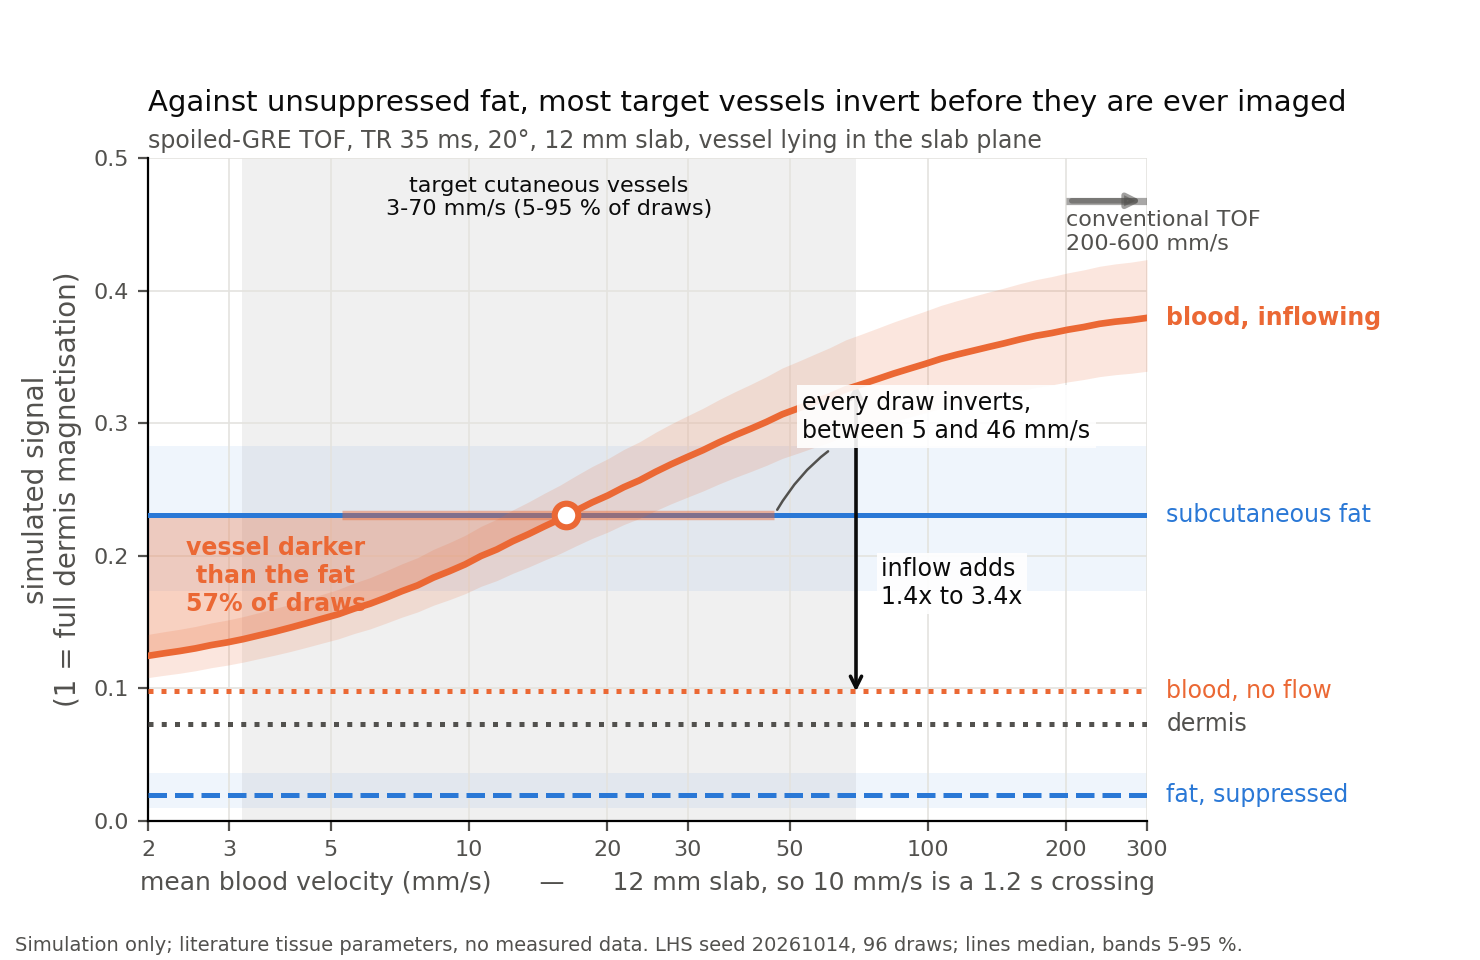
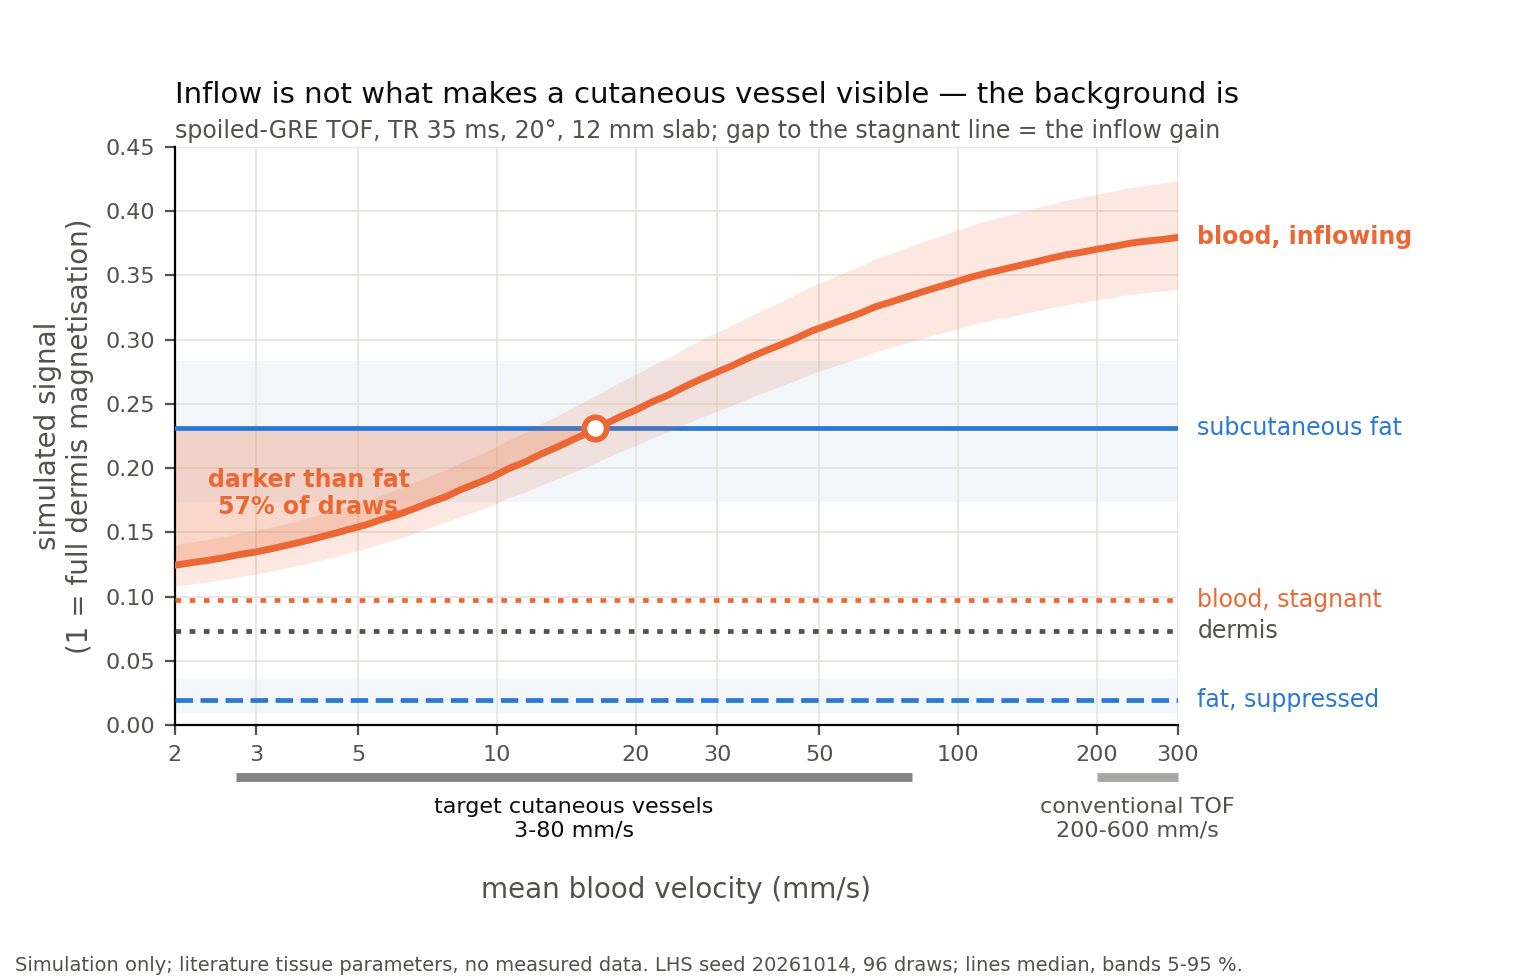
Rebuild Figure 1b: move everything that is not a curve out of the plot
The panel had grown to seventeen elements - two shaded bands, a span bar,
two leader-line callouts, a double-headed arrow, an inline arrow graphic
and six labels - each added for a reason and collectively unreadable.

Rebuilt rather than patched further, on one rule: the plot area carries
curves, everything else goes to an edge.

  - the two velocity regimes move from shaded bands inside the axes to a
    rail below them, which removes two large grey washes that were
    competing with the inversion shading for the same space;
  - the inflow double-arrow goes, because the stagnant line already shows
    the gap - the arrow was annotating something the reader can see;
  - the crossing span bar and both callouts go; those numbers belong in
    the caption, and the printout now emits every one of them;
  - five levels keep their right-margin labels, so identity is never
    carried by colour alone and no legend box is needed.

What survives inside the axes: five lines, one band per level, the
inversion area and its one label. Nothing else.

No numbers changed.

diff --git a/figures/fig1b_regime.py b/figures/fig1b_regime.py
@@ -1,22 +1,28 @@
-"""Figure 1b: why cutaneous TOF is a different problem, in absolute signal.
+"""Figure 1b: what inflow buys in skin, and which background it has to beat.
 
-One panel, one message. As blood slows into the cutaneous range, inflow
-enhancement is progressively spent and the slab-mean blood signal falls toward
-the static steady state. Whether the vessel is still visible there is decided
-by the background it sits against, which in skin is set by depth:
+One panel. Blood signal against velocity, with the four levels it is measured
+against drawn as flat references:
 
-  - against DERMIS (shallow), blood stays above the background at every
-    physiological velocity;
-  - against UNSUPPRESSED SUBCUTANEOUS FAT (1-10 mm, where the target vessels
-    are), blood falls BELOW the background and the vessel inverts. Every draw
-    in the literature parameter ranges inverts somewhere; only the velocity at
-    which it happens is uncertain, and that velocity lands inside the target
-    range;
-  - with the fat suppressed, the background collapses to near zero and the
-    inversion disappears entirely.
+    blood, stagnant       the spoiled-GRE fixed point - a vessel with no flow.
+                          The gap between it and the curve IS the inflow
+                          enhancement, so the figure shows inflow rather than
+                          asking the reader to assume it.
+    subcutaneous fat      the background at the 1-10 mm target depth.
+    fat, suppressed       the same background with a fat-saturation pulse.
+    dermis                the background for the shallowest vessels.
 
-Conventional TOF operates two decades to the right of this, on the plateau,
-which is why its parameter choices do not transfer.
+Two things follow, and they are different claims:
+
+  - inflow still works: 1.4x at 3 mm/s to 3.4x at 70 mm/s over the stagnant
+    floor, so it is not exhausted at cutaneous velocities;
+  - but it is not what makes the vessel visible. Stagnant blood already beats
+    dermis and suppressed fat. Inflow is load-bearing only against UNSUPPRESSED
+    fat, where stagnant blood sits at 0.42x the background - and there it
+    fails, inverting in every parameter draw.
+
+Layout: the velocity regimes sit on a rail below the axes rather than as shaded
+bands inside it, and the numbers belong in the caption rather than in callouts,
+so the plot area carries curves and nothing else.
 
 Every number is read from tissues.py and protocols.py. No measured data.
 
@@ -37,21 +43,14 @@ from tissues import HAEMODYNAMICS, PARAM_FIELDS, sample_tissues
 
 # Validated two-hue pair (dataviz validator, light surface): blood vs fat.
 BLOOD_C, FAT_C = SERIES[1], SERIES[0]
+DOTTED = (0, (1.2, 1.8))
 
 SEED, N_DRAWS = 20261014, 96
-TR_MS, FLIP_DEG = 35.0, 20.0
-SLAB_MM = 12.0  # stated: the transit time that governs inflow is SLAB_MM / velocity
-INPLANE_MM = 0.3
+TR_MS, FLIP_DEG, SLAB_MM, INPLANE_MM = 35.0, 20.0, 12.0, 0.3
 VELOCITIES = np.geomspace(2.0, 300.0, 64)
-INTRACRANIAL_MM_S = (200.0, 300.0)  # lower end of the 200-600 mm/s TOF range; arrow marks the rest
+CONVENTIONAL_TOF = (200.0, 600.0)  # intracranial / run-off TOF, for scale
+TICKS = (2, 3, 5, 10, 20, 30, 50, 100, 200, 300)
 KEYS = ("arterial_blood", "hypodermis", "dermis")
-
-
-def cutaneous_velocities(n: int = 4096) -> np.ndarray:
-    """Return drawn cutaneous velocities, target velocity times the thermoregulatory factor."""
-    _, others = sample_tissues(["arterial_blood"], n, SEED,
-                               haemodynamic_keys=("target_vessel_velocity", "thermoregulatory_factor"))
-    return np.asarray(others["target_vessel_velocity"]) * np.asarray(others["thermoregulatory_factor"])
 
 
 def draw() -> tuple[list[dict[str, TissueSample]], np.ndarray]:
@@ -70,43 +69,28 @@ def sequences() -> tuple[TofSequence, TofSequence]:
             TofSequence(timing=timing, flip_deg=FLIP_DEG, modules=(SaturationModule("fatsat_s", 8.0),)))
 
 
-def _flow(velocity: float) -> FlowGeometry:
-    """Return the laminar flow geometry of a target vessel lying in the slab plane."""
-    slab = Slab(thickness_mm=SLAB_MM, orientation_deg=90.0)
-    vessel = Vessel(depth_mm=5.0, polar_deg=90.0, azimuth_deg=0.0,
-                    diameter_mm=HAEMODYNAMICS["target_diameter"].nominal)
-    return FlowGeometry(vessel, slab, velocity, N_SHELLS, SLAB_MM * 1.001)
-
-
 def blood_at(seq: TofSequence, sample: TissueSample, velocity: float) -> float:
     """Return slab-mean blood signal for one tissue sample at one velocity."""
-    flow = _flow(velocity)
+    vessel = Vessel(depth_mm=5.0, polar_deg=90.0, azimuth_deg=0.0,
+                    diameter_mm=HAEMODYNAMICS["target_diameter"].nominal)
+    flow = FlowGeometry(vessel, Slab(thickness_mm=SLAB_MM, orientation_deg=90.0),
+                        velocity, N_SHELLS, SLAB_MM * 1.001)
     return float(np.mean(seq.blood_signal(sample, flow, np.linspace(0.0, flow.path_mm(), 32))))
 
 
-def blood_curve(seq: TofSequence, samples: list[dict[str, TissueSample]]) -> np.ndarray:
-    """Return slab-mean blood signal, shape (velocities, draws)."""
-    return np.array([[blood_at(seq, s["arterial_blood"], v) for s in samples] for v in VELOCITIES])
-
-
-def flat(seq: TofSequence, samples: list[dict[str, TissueSample]], key: str) -> np.ndarray:
-    """Return the static steady-state signal of one tissue over the draws."""
-    return np.array([float(seq.static_signal(s[key])) for s in samples])
-
-
 def crossing_velocities(seq: TofSequence, samples: list[dict[str, TissueSample]], key: str) -> np.ndarray:
-    """Return, per draw, the velocity at which that draw's blood falls below that draw's own background.
+    """Return, per draw, the velocity at which that draw's blood falls below its own background.
 
-    Solved by bisection in log velocity rather than read off the plotting grid,
-    so the quoted bounds do not move when the grid is refined.
+    Solved by bisection in log velocity, not read off the plotting grid, so the
+    bounds do not move when the grid is refined.
     """
     from scipy.optimize import brentq
 
     out = []
     for s in samples:
-        background = float(seq.static_signal(s[key]))
+        level = float(seq.static_signal(s[key]))
 
-        def excess(log_v: float, sample=s["arterial_blood"], g=background) -> float:
+        def excess(log_v: float, sample=s["arterial_blood"], g=level) -> float:
             return blood_at(seq, sample, float(np.exp(log_v))) - g
 
         lo, hi = np.log(VELOCITIES[0]), np.log(VELOCITIES[-1])
@@ -115,117 +99,93 @@ def crossing_velocities(seq: TofSequence, samples: list[dict[str, TissueSample]]
     return np.array(out)
 
 
-def hline(ax, values: np.ndarray, colour: str, style: str, alpha: float = 0.07) -> float:
-    """Draw a velocity-independent background as a median line with its 5-95 % band; return the median."""
-    lo, mid, hi = np.percentile(values, [5, 50, 95])
-    if alpha:
-        ax.axhspan(lo, hi, color=colour, alpha=alpha, lw=0, zorder=1)
-    ax.axhline(mid, color=colour, lw=1.8, ls=style, zorder=3)
+def reference(ax, values, colour: str, style, label: str, band: bool = False) -> float:
+    """Draw a velocity-independent level as a line, label it in the right margin, return its median."""
+    lo, mid, hi = np.percentile(np.asarray(values, dtype=float), [5, 50, 95])
+    if band:
+        ax.axhspan(lo, hi, color=colour, alpha=0.055, lw=0, zorder=1)
+    ax.axhline(mid, color=colour, lw=1.7, ls=style, zorder=3)
+    ax.annotate(label, (1.0, mid), xycoords=("axes fraction", "data"), xytext=(7, 0),
+                textcoords="offset points", va="center", fontsize=8.5, color=colour,
+                annotation_clip=False)
     return float(mid)
 
 
+def regime_rail(ax, target: tuple[float, float]) -> None:
+    """Draw the velocity regimes on a rail below the axes, keeping the plot area for curves."""
+    t = ax.get_xaxis_transform()
+    for (lo, hi), colour, text in ((target, INK, "target cutaneous vessels"),
+                                   (CONVENTIONAL_TOF, INK_2, "conventional TOF")):
+        drawn_hi = min(hi, VELOCITIES[-1])
+        ax.plot([lo, drawn_hi], [-0.09, -0.09], transform=t, color=colour, lw=3.2, alpha=0.5,
+                solid_capstyle="butt", clip_on=False, zorder=5)
+        ax.annotate(f"{text}\n{lo:.0f}-{hi:.0f} mm/s", (np.sqrt(lo * drawn_hi), -0.125), xycoords=t,
+                    ha="center", va="top", fontsize=8, color=colour, clip_on=False)
+
+
 def main() -> None:
-    """Build the panel and print the numbers behind it."""
-    samples, draw_velocities = draw()
+    """Build the panel and print every number the caption needs."""
+    samples, drawn_v = draw()
     plain, fatsat = sequences()
-    blood = blood_curve(plain, samples)  # blood is on-resonance: the fat pulse leaves it untouched
-    v_lo, v_hi = np.percentile(cutaneous_velocities(), [5, 95])
+    v_lo, v_hi = np.percentile(drawn_v, [5, 95])
 
-    fig, ax = plt.subplots(figsize=(7.4, 4.8))
-    fig.subplots_adjust(left=0.10, right=0.775, top=0.835, bottom=0.145)
-    ax.axvspan(v_lo, v_hi, color=INK, alpha=0.06, lw=0, zorder=0)
+    fig, ax = plt.subplots(figsize=(7.6, 4.9))
+    fig.subplots_adjust(left=0.115, right=0.775, top=0.85, bottom=0.26)
 
-    stat_b = hline(ax, flat(plain, samples, "arterial_blood"), BLOOD_C, (0, (1, 1.6)), alpha=0.0)
-    fat_u = hline(ax, flat(plain, samples, "hypodermis"), FAT_C, "-")
-    fat_s = hline(ax, flat(fatsat, samples, "hypodermis"), FAT_C, "--")
-    derm = hline(ax, flat(plain, samples, "dermis"), INK_2, ":", alpha=0.0)
-
+    blood = np.array([[blood_at(plain, s["arterial_blood"], v) for s in samples] for v in VELOCITIES])
     lo, mid, hi = np.percentile(blood, [5, 50, 95], axis=-1)
-    ax.fill_between(VELOCITIES, lo, hi, color=BLOOD_C, alpha=0.16, lw=0, zorder=4)
-    ax.plot(VELOCITIES, mid, color=BLOOD_C, lw=2.4, zorder=5)
 
-    frac = float(np.mean([blood_at(plain, s["arterial_blood"], float(v)) < float(plain.static_signal(s["hypodermis"]))
-                          for s, v in zip(samples, draw_velocities)]))
+    fat_u = reference(ax, [plain.static_signal(s["hypodermis"]) for s in samples], FAT_C, "-",
+                      "subcutaneous fat", band=True)
+    fat_s = reference(ax, [fatsat.static_signal(s["hypodermis"]) for s in samples], FAT_C, "--",
+                      "fat, suppressed", band=True)
+    derm = reference(ax, [plain.static_signal(s["dermis"]) for s in samples], INK_2, DOTTED, "dermis")
+    stat = reference(ax, [plain.static_signal(s["arterial_blood"]) for s in samples], BLOOD_C, DOTTED,
+                     "blood, stagnant")
 
-    # The region where the vessel is darker than the fat around it, as an area.
-    dark = mid < fat_u
-    ax.fill_between(VELOCITIES, mid, fat_u, where=dark, color=BLOOD_C, alpha=0.30,
+    # The inversion as an area, not a crossing the reader has to decode.
+    ax.fill_between(VELOCITIES, mid, fat_u, where=mid < fat_u, color=BLOOD_C, alpha=0.26,
                     lw=0, zorder=2, interpolate=True)
+    ax.fill_between(VELOCITIES, lo, hi, color=BLOOD_C, alpha=0.15, lw=0, zorder=4)
+    ax.plot(VELOCITIES, mid, color=BLOOD_C, lw=2.5, zorder=5)
+    ax.annotate("blood, inflowing", (1.0, mid[-1]), xycoords=("axes fraction", "data"), xytext=(7, 0),
+                textcoords="offset points", va="center", fontsize=8.5, color=BLOOD_C,
+                weight="bold", annotation_clip=False)
 
-    # Where each draw's vessel goes dark against its own unsuppressed fat.
     xs = crossing_velocities(plain, samples, "hypodermis")
     x5, x50, x95 = np.percentile(xs, [5, 50, 95])
-    ax.plot([x5, x95], [fat_u, fat_u], color=BLOOD_C, lw=3.4, solid_capstyle="butt", alpha=0.45, zorder=6)
-    ax.plot([x50], [fat_u], "o", ms=8.5, mfc="white", mec=BLOOD_C, mew=2.2, zorder=7)
+    frac = float(np.mean([blood_at(plain, s["arterial_blood"], float(v)) < float(plain.static_signal(s["hypodermis"]))
+                          for s, v in zip(samples, drawn_v)]))
+    ax.plot([x50], [fat_u], "o", ms=8, mfc="white", mec=BLOOD_C, mew=2.1, zorder=7)
+    ax.annotate(f"darker than fat\n{frac:.0%} of draws", (VELOCITIES[0] * 1.95, fat_u * 0.78),
+                ha="center", va="center", fontsize=8.5, color=BLOOD_C, weight="bold", zorder=8)
 
-    ax.annotate(f"vessel darker\nthan the fat\n{frac:.0%} of draws",
-                (VELOCITIES[0] * 1.9, fat_u * 0.80), ha="center", va="center",
-                fontsize=8.5, color=BLOOD_C, weight="bold", zorder=8)
-    i_lo = int(np.argmin(np.abs(VELOCITIES - v_lo)))
-    i_hi = int(np.argmin(np.abs(VELOCITIES - v_hi)))
-    ax.annotate("", (v_hi, stat_b), xytext=(v_hi, mid[i_hi]),
-                arrowprops=dict(arrowstyle="<->", color=INK, lw=1.3, shrinkA=0, shrinkB=0))
-    ax.annotate(f"inflow adds\n{mid[i_lo] / stat_b:.1f}x to {mid[i_hi] / stat_b:.1f}x",
-                (v_hi, np.sqrt(stat_b * mid[i_hi])), xytext=(9, 0), textcoords="offset points",
-                ha="left", va="center", fontsize=8.5, color=INK, zorder=9,
-                bbox=dict(fc="white", ec="none", alpha=0.9, pad=1.6))
-
-    ax.annotate(f"every draw inverts,\nbetween {x5:.0f} and {x95:.0f} mm/s",
-                (x95, fat_u), xytext=(10, 26), textcoords="offset points",
-                ha="left", va="bottom", fontsize=8.5, color=INK, zorder=8,
-                bbox=dict(fc="white", ec="none", alpha=0.9, pad=2.0),
-                arrowprops=dict(arrowstyle="-", color=INK_2, lw=0.9, connectionstyle="arc3,rad=0.3"))
-
-    ax.annotate(f"target cutaneous vessels\n{v_lo:.0f}-{v_hi:.0f} mm/s (5-95 % of draws)",
-                (np.sqrt(v_lo * v_hi), 0.487), ha="center", va="top", fontsize=8, color=INK)
-    ic = INTRACRANIAL_MM_S
-    ax.plot(ic, [0.468, 0.468], color=INK_2, lw=2.6, solid_capstyle="butt", alpha=0.5)
-    ax.annotate("conventional TOF\n200-600 mm/s", (ic[0], 0.461), ha="left", va="top",
-                fontsize=8, color=INK_2)
-    ax.annotate("", (ic[1], 0.468), xytext=(ic[0], 0.468),
-                arrowprops=dict(arrowstyle="-|>", color=INK_2, lw=2.0, alpha=0.55))
-
-    for y, text, colour, weight in ((mid[-1], "blood, inflowing", BLOOD_C, "bold"),
-                                    (stat_b, "blood, no flow", BLOOD_C, "normal"),
-                                    (fat_u, "subcutaneous fat", FAT_C, "normal"),
-                                    (derm, "dermis", INK_2, "normal"),
-                                    (fat_s, "fat, suppressed", FAT_C, "normal")):
-        ax.annotate(text, (1.0, y), xycoords=("axes fraction", "data"), xytext=(7, 0),
-                    textcoords="offset points", va="center", fontsize=8.5, color=colour,
-                    weight=weight, annotation_clip=False)
-
-    ax.set(xscale="log", xlim=(VELOCITIES[0], VELOCITIES[-1]), ylim=(0, 0.50))
-    ax.set_xlabel(f"mean blood velocity (mm/s)      —      {SLAB_MM:g} mm slab, so 10 mm/s is a "
-                  f"{SLAB_MM / 10:.1f} s crossing", color=INK_2, fontsize=9)
+    ax.set(xscale="log", xlim=(VELOCITIES[0], VELOCITIES[-1]), ylim=(0, 0.45), xticks=TICKS)
+    ax.set_xticklabels([str(t) for t in TICKS])
+    ax.xaxis.set_minor_locator(plt.NullLocator())
+    ax.set_xlabel("mean blood velocity (mm/s)", color=INK_2, labelpad=40)
     ax.set_ylabel("simulated signal\n(1 = full dermis magnetisation)", color=INK_2)
-    ax.set_title("Against unsuppressed fat, most target vessels invert before they are ever imaged",
-                 fontsize=10.5, color=INK, loc="left", pad=17)
-    ax.text(0, 1.016, f"spoiled-GRE TOF, TR {TR_MS:g} ms, {FLIP_DEG:g}°, {SLAB_MM:g} mm slab, "
-                      f"vessel lying in the slab plane", transform=ax.transAxes, fontsize=8.5, color=INK_2)
-    from matplotlib.ticker import FixedFormatter, FixedLocator
-    ticks = [2, 3, 5, 10, 20, 30, 50, 100, 200, 300]
-    ax.xaxis.set_major_locator(FixedLocator(ticks))
-    ax.xaxis.set_major_formatter(FixedFormatter([str(t) for t in ticks]))
-    ax.xaxis.set_minor_locator(FixedLocator([]))
+    ax.set_title("Inflow is not what makes a cutaneous vessel visible — the background is",
+                 fontsize=10.5, color=INK, loc="left", pad=16)
+    ax.text(0, 1.015, f"spoiled-GRE TOF, TR {TR_MS:g} ms, {FLIP_DEG:g}°, {SLAB_MM:g} mm slab; "
+                      f"gap to the stagnant line = the inflow gain",
+            transform=ax.transAxes, fontsize=8.5, color=INK_2)
     ax.grid(color=GRID, lw=0.6, zorder=0)
     ax.tick_params(colors=INK_2, labelsize=8)
     for side in ("top", "right"):
         ax.spines[side].set_visible(False)
+    regime_rail(ax, (v_lo, v_hi))
 
-    print(f"Blood with NO flow (spoiled-GRE fixed point): {stat_b:.3f} = "
-          f"{stat_b / derm:.2f}x dermis, {stat_b / fat_s:.1f}x suppressed fat, {stat_b / fat_u:.2f}x fat")
-    print(f"Inflow enhancement over that floor: {mid[i_lo] / stat_b:.2f}x at {v_lo:.0f} mm/s, "
-          f"{mid[i_hi] / stat_b:.2f}x at {v_hi:.0f} mm/s")
-    print(f"Backgrounds (median, dermis M0): fat {fat_u:.3f}, fat suppressed {fat_s:.3f}, dermis {derm:.3f}")
-    print(f"Target cutaneous velocity 5-95 % of draws: {v_lo:.0f}-{v_hi:.0f} mm/s")
-    print(f"Inversion against unsuppressed fat: {len(xs)}/{N_DRAWS} draws invert; "
-          f"velocity {x50:.0f} mm/s [{x5:.0f}-{x95:.0f}], transit {SLAB_MM / x50:.2f} s "
-          f"[{SLAB_MM / x95:.2f}-{SLAB_MM / x5:.2f}]")
-    print(f"Joint draws (own velocity AND own tissue parameters) darker than unsuppressed fat: {frac:.0%}")
-    print(f"Against suppressed fat the median curve never inverts: min ratio {np.min(mid) / fat_s:.1f}x")
-    for v in (5.0, 20.0, 100.0, 400.0):
-        i = int(np.argmin(np.abs(VELOCITIES - v)))
-        print(f"  {VELOCITIES[i]:6.1f} mm/s: blood {mid[i]:.3f} = {mid[i] / fat_u:4.2f}x fat, {mid[i] / derm:4.2f}x dermis")
+    i_lo, i_hi = (int(np.argmin(np.abs(VELOCITIES - v))) for v in (v_lo, v_hi))
+    print(f"Target velocity, 5-95 % of draws: {v_lo:.0f}-{v_hi:.0f} mm/s")
+    print(f"Levels: stagnant blood {stat:.3f} | dermis {derm:.3f} | fat {fat_u:.3f} | suppressed fat {fat_s:.3f}")
+    print(f"Stagnant blood already beats dermis {stat / derm:.2f}x and suppressed fat {stat / fat_s:.1f}x, "
+          f"but unsuppressed fat only {stat / fat_u:.2f}x")
+    print(f"Inflow enhancement over stagnant: {mid[i_lo] / stat:.2f}x at {v_lo:.0f} mm/s, "
+          f"{mid[i_hi] / stat:.2f}x at {v_hi:.0f} mm/s")
+    print(f"Inversion vs unsuppressed fat: {len(xs)}/{N_DRAWS} draws invert, at {x50:.0f} mm/s "
+          f"[{x5:.0f}-{x95:.0f}] (transit {SLAB_MM / x50:.2f} s); {frac:.0%} of joint draws sit below it")
+    print(f"Against suppressed fat the median never inverts: minimum {np.min(mid) / fat_s:.1f}x")
 
     save(fig, "fig1b_regime", n=N_DRAWS, seed=SEED,
          note=f"Simulation only; literature tissue parameters, no measured data. "
